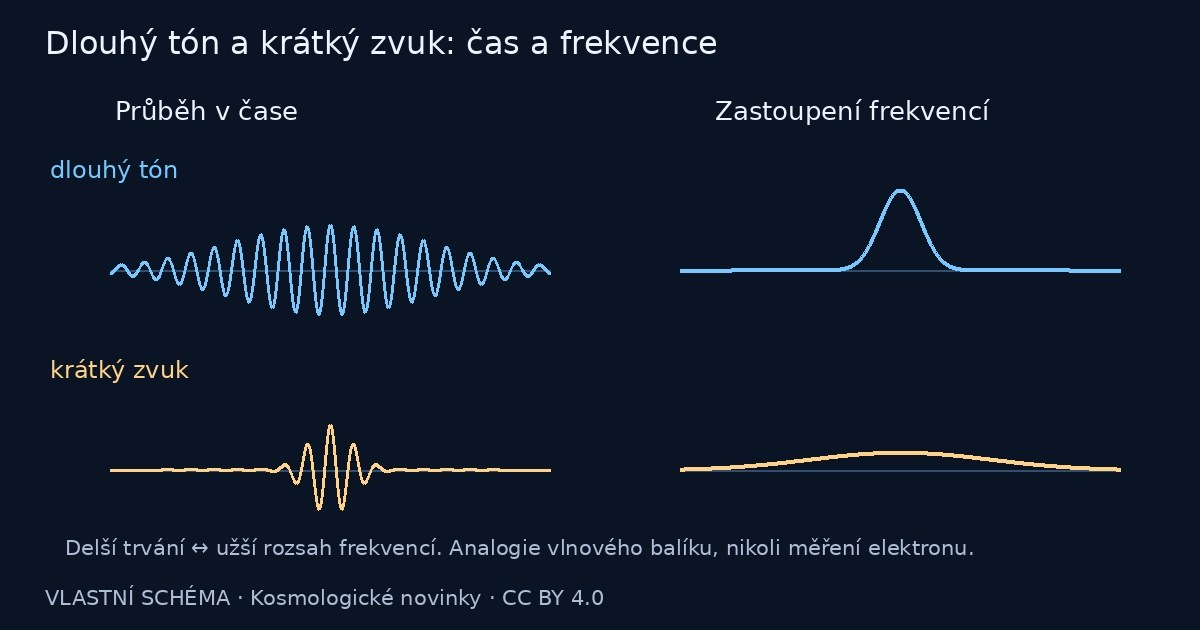
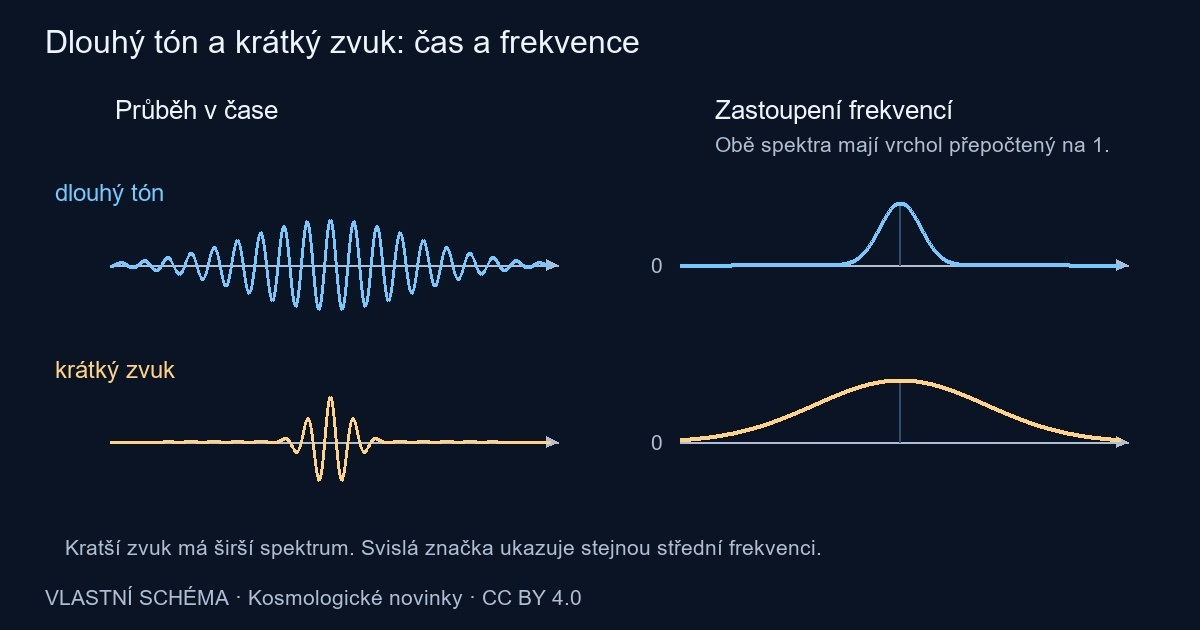
Add files via upload

diff --git a/tools/kosmopedie_diagrams.py b/tools/kosmopedie_diagrams.py
@@ -337,23 +337,26 @@ def diagram(entry):
         c.text(65,545,'Matematická ilustrace stavu 1s; jas je názorný a nejde o fotografii atomu.',MUTED,21)
     elif k == 'edu-tone-pulse':
         c.text(115,95,'Průběh v čase',WHITE,26);c.text(715,95,'Zastoupení frekvencí',WHITE,26)
-        for baseline,sigma,fwidth,color,label in ((270,100,20,BLUE,'dlouhý tón'),(470,22,90,GOLD,'krátký zvuk')):
-            c.text(50,baseline-115,label,color,24)
-            c.line([(110,baseline),(550,baseline)],GRID,2);c.line([(680,baseline),(1120,baseline)],GRID,2)
+        c.text(715,132,'Obě spektra mají vrchol přepočtený na 1.',MUTED,21)
+        for baseline,sigma,fwidth,color,label in ((265,85,20,BLUE,'dlouhý tón'),(442,20,85,GOLD,'krátký zvuk')):
+            c.text(55,baseline-86,label,color,24)
+            c.arrow(110,baseline,558,baseline,MUTED,2)
+            c.arrow(680,baseline,1128,baseline,MUTED,2)
+            c.line([(900,baseline),(900,baseline-63)],GRID,2)
+            c.text(651,baseline-12,'0',MUTED,21)
             c.line([(110+i,baseline-45*math.exp(-.5*((i-220)/sigma)**2)*math.cos((i-220)*.27)) for i in range(441)],color,3)
-            c.line([(680+i,baseline-(1600/fwidth)*math.exp(-.5*((i-220)/fwidth)**2)) for i in range(441)],color,4)
-        c.text(65,535,'Delší trvání ↔ užší rozsah frekvencí. Analogie vlnového balíku, nikoli měření elektronu.',MUTED,21)
+            c.line([(680+i,baseline-62*math.exp(-.5*((i-220)/fwidth)**2)) for i in range(441)],color,4)
+        c.text(65,535,'Kratší zvuk má širší spektrum. Svislá značka ukazuje stejnou střední frekvenci.',MUTED,21)
     elif k == 'edu-entanglement-distance':
-        c.text(65,90,'Myšlenkový příklad: pozorovatele dělí milion světelných let.',WHITE,25)
+        c.paragraph(65,90,'Dva pozorovatelé vzdálení milion světelných let měří stejnou vlastnost, každý na své částici z provázané dvojice.',1070,WHITE,25)
         for x,label in ((100,'Pozorovatel A'),(805,'Pozorovatel B')):
             c.box(x,180,x+290,400,BLUE if x==100 else VIOLET)
             c.text(x+20,205,label,WHITE,25)
             c.text(x+25,270,'0 1 0 0 1 1',GOLD,30)
-            c.text(x+20,345,'místní náhodná řada',MUTED,21)
-        c.line([(410,325),(785,325)],GRID,3)
-        c.paragraph(445,205,'Společný stav; odpovídající výsledky spolu souvisejí.',300,MUTED,23)
+            c.text(x+20,345,'záznam šesti měření',MUTED,21)
+        c.paragraph(425,205,'Pokus provedou šestkrát. Každá číslice je výsledek jednoho měření. Oba záznamy se v tomto příkladu shodují.',360,MUTED,23)
         c.arrow(165,460,1040,460,GREEN)
-        c.text(150,490,'Porovnání záznamů: zpráva cestuje nejméně milion let.',GREEN,24)
+        c.text(150,490,'Záznamy porovnají až po doručení zprávy (nejméně milion let).',GREEN,24)
         c.text(65,540,'Uvedené řady jsou názorné; nejde o uskutečněný experiment na této vzdálenosti.',MUTED,21)
     else:
         raise ValueError('Unknown Kosmopedie diagram: '+k)

diff --git a/tools/kosmopedie_batch5_diagrams.py b/tools/kosmopedie_batch5_diagrams.py
@@ -1,5 +1,6 @@
 """Original teaching diagrams for quantum fields; illustrations, not measurements."""
 import math
+from PIL import Image, ImageDraw
 from kosmopedie_diagrams import Canvas, WHITE, MUTED, BLUE, GOLD, VIOLET, GREEN, GRID
 
 
@@ -17,13 +18,20 @@ def diagram(entry):
         c.text(65,550,'QFT spojuje tyto tři stavební kameny do společného výpočetního rámce.',MUTED,21)
     elif k=='edu-b5-annihilation':
         c.text(65,90,'Příklad s nulovou celkovou hybností před reakcí',WHITE,26)
-        for x,col,label,symbol in ((210,BLUE,'elektron','e⁻'),(470,VIOLET,'pozitron','e⁺')):
-            c.circle(x,260,48,col,'#152137');c.text(x-20,238,symbol,col,32)
+        for x,col,label,symbol in ((210,BLUE,'elektron','−'),(470,VIOLET,'pozitron','+')):
+            c.circle(x,260,48,col,'#152137');c.text(x-21,238,'e',col,32);c.text(x-1,235,symbol,col,20)
             c.text(x-65,335,label,col,25)
         c.text(327,240,'+',WHITE,32);c.arrow(570,260,680,260,WHITE)
-        for y,col in ((220,GOLD),(300,GOLD)):
-            c.line([(720+i,y+13*math.sin(i*.13)) for i in range(301)],col,3)
-        c.arrow(850,220,720,220,GOLD);c.arrow(890,300,1020,300,GOLD)
+        center, y = 910, 254
+        backdrop = Image.new('RGBA', c.im.size)
+        painter = ImageDraw.Draw(backdrop)
+        for direction in (-1, 1):
+            shape = [(16,-19),(157,-19),(157,-30),(191,0),(157,30),(157,19),(16,19)]
+            painter.polygon([(center+direction*x,y+dy) for x,dy in shape],fill=(255,210,135,66))
+        c.im.paste(backdrop,(0,0),backdrop)
+        for direction in (-1, 1):
+            c.line([(center+direction*i,y+13*math.sin(i*.15)) for i in range(150)],GOLD,3)
+        c.circle(center,254,6,GOLD,GOLD,1)
         c.text(760,350,'dva fotony',GOLD,27)
         c.paragraph(760,395,'Opačné směry, stejné energie.',350,WHITE,24)
         c.text(65,455,'Náboj: −e + e = 0 → 0',WHITE,27)
@@ -62,10 +70,11 @@ def diagram(entry):
         c.line([(95,300),(520,300)],BLUE,5)
         c.text(95,345,'Nenulová hodnota ve vakuu',WHITE,24,maxwidth=425)
         c.paragraph(95,400,'Přítomná i bez Higgsových bosonů.',425,MUTED,24)
-        c.line([(680+i,300-100*math.exp(-.5*((i-210)/40)**2)) for i in range(426)],GOLD,4)
+        c.line([(680,300),(1105,300)],BLUE,2)
+        c.line([(680+i,300-57*math.exp(-.5*((i-212)/65)**2)*math.cos((i-212)*.105)) for i in range(426)],GOLD,4)
         c.text(680,345,'Kvantum pole',WHITE,25)
-        c.paragraph(680,400,'Excitace: do pole byla dodána energie.',425,MUTED,24)
-        c.text(65,545,'Čáry jsou názorné značky; nejde o skutečný tvar pole ani bosonu.',MUTED,22)
+        c.paragraph(680,400,'Jedno kvantové vzbuzení Higgsova pole.',425,MUTED,24)
+        c.text(65,545,'Modrá čára značí hodnotu pole ve vakuu, zlatá vlna symbolizuje vzbuzení.',MUTED,22)
     elif k=='edu-b5-mass':
         for x,col,title in ((65,BLUE,'Elektron'),(650,GOLD,'Proton')):
             c.box(x,110,x+485,510,col);c.text(x+25,135,title,col,32)

diff --git a/tools/article_image_assets.py b/tools/article_image_assets.py
@@ -66,14 +66,14 @@ def diagram(entry):
         for baseline,label,color,probs in ((305,'Superpozice',blue,(50,50,100,0)),
                                            (490,'Náhodná směs',violet,(50,50,50,50))):
             text(55,baseline-80,label,color,28)
-            text(55,baseline-37,'možností 0 a 1',muted,21)
+            text(55,baseline-37,'0 a 1 se stejnou fází' if baseline==305 else 'náhodně buď 0, nebo 1',muted,21)
             for x,value,state in zip((410,555,850,995),probs,('0','1','0','1')):
                 top=baseline-value
                 if value:d.rectangle((x,top,x+70,baseline),fill=color)
                 else:line([(x,baseline),(x+70,baseline)],color,3)
                 text(x-1,top-35,str(value)+' %',white,24)
                 text(x+27,baseline+8,state,muted,23)
-        text(55,535,'H je v obou řádcích stejná operace; přímé měření jí nepředchází.',muted,22)
+        text(55,535,'H = Hadamardova operace. V pravém sloupci proběhne před měřením.',muted,22)
     elif kind=='electron-interference-hits':
         import random
         rng=random.Random(42140)
@@ -101,8 +101,8 @@ def diagram(entry):
             line([(160,y),(650,y)],blue,4);text(690,y-15,label,white,24)
         circle(230,450,12,gold);arrow(300,428,300,315,gold)
         text(335,355,'pohlcení fotonu',gold,24)
-        arrow(550,320,550,430,violet);text(565,390,'emise',violet,23)
-        text(160,140,'Přechod vyžaduje energii odpovídající rozdílu hladin.',muted,22)
+        arrow(550,320,550,430,violet);text(565,390,'vyzáření fotonu',violet,23)
+        text(160,140,'Energie pohlceného či vyzářeného fotonu odpovídá rozdílu hladin.',muted,22)
         text(160,520,'Schody v energii; nejde o oběžné dráhy elektronu.',muted,23)
     elif kind=='quantum-probability':
         text(65,95,'Jeden pokus: jeden zásah. Mnoho pokusů: rozdělení výsledků.',white,25)
@@ -121,9 +121,10 @@ def diagram(entry):
             for dy in (-42,42):line([(200,y),(280,y+dy),(440,y+dy),(520,y)],c,3)
             if y==425:
                 for dy in (-42,42):d.rectangle((343,y+dy-14,372,y+dy+14),outline=gold,width=3)
-            arrow(520,y,640,y,c);text(245,y-10,'dvě cesty',muted,20)
-            text(690,y-50,'výstup 0: '+p0,c,27);text(690,y+15,'výstup 1: '+p1,c,27)
-        text(65,525,'Ideální vyvážený interferometr; nahoře vhodně sladěná fáze.',muted,22)
+            arrow(520,y,640,y-32,c);arrow(520,y,640,y+32,c);text(245,y-10,'dvě cesty',muted,20)
+            d.polygon([(509,y),(520,y-10),(531,y),(520,y+10)],fill=c)
+            text(670,y-49,'výstup 0: '+p0,c,27);text(670,y+15,'výstup 1: '+p1,c,27)
+        text(65,525,'Druhý dělič spojuje obě cesty. Nahoře jsou jejich fáze vhodně sladěné.',muted,22)
     elif kind=='quantum-uncertainty':
         text(85,95,'Rozdělení polohy x',white,26);text(665,95,'Rozdělení hybnosti pₓ',white,26)
         for y,sx,sp,color,label in ((285,28,90,blue,'užší poloha → širší hybnost'),
